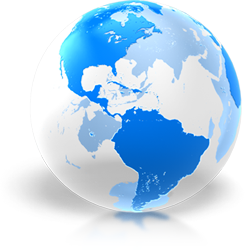
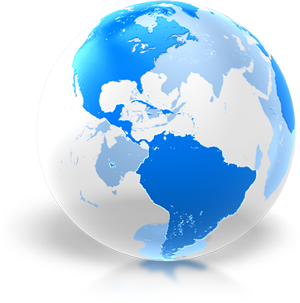
Implement Skrollr library on home page.

diff --git a/vendor/assets/javascripts/skrollr.min.js b/vendor/assets/javascripts/skrollr.min.js
@@ -1,0 +1,2 @@
+/*! skrollr 0.6.30 (2015-06-19) | Alexander Prinzhorn - https://github.com/Prinzhorn/skrollr | Free to use under terms of MIT license */
+!function(a,b,c){"use strict";function d(c){if(e=b.documentElement,f=b.body,T(),ha=this,c=c||{},ma=c.constants||{},c.easing)for(var d in c.easing)W[d]=c.easing[d];ta=c.edgeStrategy||"set",ka={beforerender:c.beforerender,render:c.render,keyframe:c.keyframe},la=c.forceHeight!==!1,la&&(Ka=c.scale||1),na=c.mobileDeceleration||y,pa=c.smoothScrolling!==!1,qa=c.smoothScrollingDuration||A,ra={targetTop:ha.getScrollTop()},Sa=(c.mobileCheck||function(){return/Android|iPhone|iPad|iPod|BlackBerry/i.test(navigator.userAgent||navigator.vendor||a.opera)})(),Sa?(ja=b.getElementById(c.skrollrBody||z),ja&&ga(),X(),Ea(e,[s,v],[t])):Ea(e,[s,u],[t]),ha.refresh(),wa(a,"resize orientationchange",function(){var a=e.clientWidth,b=e.clientHeight;(b!==Pa||a!==Oa)&&(Pa=b,Oa=a,Qa=!0)});var g=U();return function h(){$(),va=g(h)}(),ha}var e,f,g={get:function(){return ha},init:function(a){return ha||new d(a)},VERSION:"0.6.29"},h=Object.prototype.hasOwnProperty,i=a.Math,j=a.getComputedStyle,k="touchstart",l="touchmove",m="touchcancel",n="touchend",o="skrollable",p=o+"-before",q=o+"-between",r=o+"-after",s="skrollr",t="no-"+s,u=s+"-desktop",v=s+"-mobile",w="linear",x=1e3,y=.004,z="skrollr-body",A=200,B="start",C="end",D="center",E="bottom",F="___skrollable_id",G=/^(?:input|textarea|button|select)$/i,H=/^\s+|\s+$/g,I=/^data(?:-(_\w+))?(?:-?(-?\d*\.?\d+p?))?(?:-?(start|end|top|center|bottom))?(?:-?(top|center|bottom))?$/,J=/\s*(@?[\w\-\[\]]+)\s*:\s*(.+?)\s*(?:;|$)/gi,K=/^(@?[a-z\-]+)\[(\w+)\]$/,L=/-([a-z0-9_])/g,M=function(a,b){return b.toUpperCase()},N=/[\-+]?[\d]*\.?[\d]+/g,O=/\{\?\}/g,P=/rgba?\(\s*-?\d+\s*,\s*-?\d+\s*,\s*-?\d+/g,Q=/[a-z\-]+-gradient/g,R="",S="",T=function(){var a=/^(?:O|Moz|webkit|ms)|(?:-(?:o|moz|webkit|ms)-)/;if(j){var b=j(f,null);for(var c in b)if(R=c.match(a)||+c==c&&b[c].match(a))break;if(!R)return void(R=S="");R=R[0],"-"===R.slice(0,1)?(S=R,R={"-webkit-":"webkit","-moz-":"Moz","-ms-":"ms","-o-":"O"}[R]):S="-"+R.toLowerCase()+"-"}},U=function(){var b=a.requestAnimationFrame||a[R.toLowerCase()+"RequestAnimationFrame"],c=Ha();return(Sa||!b)&&(b=function(b){var d=Ha()-c,e=i.max(0,1e3/60-d);return a.setTimeout(function(){c=Ha(),b()},e)}),b},V=function(){var b=a.cancelAnimationFrame||a[R.toLowerCase()+"CancelAnimationFrame"];return(Sa||!b)&&(b=function(b){return a.clearTimeout(b)}),b},W={begin:function(){return 0},end:function(){return 1},linear:function(a){return a},quadratic:function(a){return a*a},cubic:function(a){return a*a*a},swing:function(a){return-i.cos(a*i.PI)/2+.5},sqrt:function(a){return i.sqrt(a)},outCubic:function(a){return i.pow(a-1,3)+1},bounce:function(a){var b;if(.5083>=a)b=3;else if(.8489>=a)b=9;else if(.96208>=a)b=27;else{if(!(.99981>=a))return 1;b=91}return 1-i.abs(3*i.cos(a*b*1.028)/b)}};d.prototype.refresh=function(a){var d,e,f=!1;for(a===c?(f=!0,ia=[],Ra=0,a=b.getElementsByTagName("*")):a.length===c&&(a=[a]),d=0,e=a.length;e>d;d++){var g=a[d],h=g,i=[],j=pa,k=ta,l=!1;if(f&&F in g&&delete g[F],g.attributes){for(var m=0,n=g.attributes.length;n>m;m++){var p=g.attributes[m];if("data-anchor-target"!==p.name)if("data-smooth-scrolling"!==p.name)if("data-edge-strategy"!==p.name)if("data-emit-events"!==p.name){var q=p.name.match(I);if(null!==q){var r={props:p.value,element:g,eventType:p.name.replace(L,M)};i.push(r);var s=q[1];s&&(r.constant=s.substr(1));var t=q[2];/p$/.test(t)?(r.isPercentage=!0,r.offset=(0|t.slice(0,-1))/100):r.offset=0|t;var u=q[3],v=q[4]||u;u&&u!==B&&u!==C?(r.mode="relative",r.anchors=[u,v]):(r.mode="absolute",u===C?r.isEnd=!0:r.isPercentage||(r.offset=r.offset*Ka))}}else l=!0;else k=p.value;else j="off"!==p.value;else if(h=b.querySelector(p.value),null===h)throw'Unable to find anchor target "'+p.value+'"'}if(i.length){var w,x,y;!f&&F in g?(y=g[F],w=ia[y].styleAttr,x=ia[y].classAttr):(y=g[F]=Ra++,w=g.style.cssText,x=Da(g)),ia[y]={element:g,styleAttr:w,classAttr:x,anchorTarget:h,keyFrames:i,smoothScrolling:j,edgeStrategy:k,emitEvents:l,lastFrameIndex:-1},Ea(g,[o],[])}}}for(Aa(),d=0,e=a.length;e>d;d++){var z=ia[a[d][F]];z!==c&&(_(z),ba(z))}return ha},d.prototype.relativeToAbsolute=function(a,b,c){var d=e.clientHeight,f=a.getBoundingClientRect(),g=f.top,h=f.bottom-f.top;return b===E?g-=d:b===D&&(g-=d/2),c===E?g+=h:c===D&&(g+=h/2),g+=ha.getScrollTop(),g+.5|0},d.prototype.animateTo=function(a,b){b=b||{};var d=Ha(),e=ha.getScrollTop(),f=b.duration===c?x:b.duration;return oa={startTop:e,topDiff:a-e,targetTop:a,duration:f,startTime:d,endTime:d+f,easing:W[b.easing||w],done:b.done},oa.topDiff||(oa.done&&oa.done.call(ha,!1),oa=c),ha},d.prototype.stopAnimateTo=function(){oa&&oa.done&&oa.done.call(ha,!0),oa=c},d.prototype.isAnimatingTo=function(){return!!oa},d.prototype.isMobile=function(){return Sa},d.prototype.setScrollTop=function(b,c){return sa=c===!0,Sa?Ta=i.min(i.max(b,0),Ja):a.scrollTo(0,b),ha},d.prototype.getScrollTop=function(){return Sa?Ta:a.pageYOffset||e.scrollTop||f.scrollTop||0},d.prototype.getMaxScrollTop=function(){return Ja},d.prototype.on=function(a,b){return ka[a]=b,ha},d.prototype.off=function(a){return delete ka[a],ha},d.prototype.destroy=function(){var a=V();a(va),ya(),Ea(e,[t],[s,u,v]);for(var b=0,d=ia.length;d>b;b++)fa(ia[b].element);e.style.overflow=f.style.overflow="",e.style.height=f.style.height="",ja&&g.setStyle(ja,"transform","none"),ha=c,ja=c,ka=c,la=c,Ja=0,Ka=1,ma=c,na=c,La="down",Ma=-1,Oa=0,Pa=0,Qa=!1,oa=c,pa=c,qa=c,ra=c,sa=c,Ra=0,ta=c,Sa=!1,Ta=0,ua=c};var X=function(){var d,g,h,j,o,p,q,r,s,t,u,v;wa(e,[k,l,m,n].join(" "),function(a){var e=a.changedTouches[0];for(j=a.target;3===j.nodeType;)j=j.parentNode;switch(o=e.clientY,p=e.clientX,t=a.timeStamp,G.test(j.tagName)||a.preventDefault(),a.type){case k:d&&d.blur(),ha.stopAnimateTo(),d=j,g=q=o,h=p,s=t;break;case l:G.test(j.tagName)&&b.activeElement!==j&&a.preventDefault(),r=o-q,v=t-u,ha.setScrollTop(Ta-r,!0),q=o,u=t;break;default:case m:case n:var f=g-o,w=h-p,x=w*w+f*f;if(49>x){if(!G.test(d.tagName)){d.focus();var y=b.createEvent("MouseEvents");y.initMouseEvent("click",!0,!0,a.view,1,e.screenX,e.screenY,e.clientX,e.clientY,a.ctrlKey,a.altKey,a.shiftKey,a.metaKey,0,null),d.dispatchEvent(y)}return}d=c;var z=r/v;z=i.max(i.min(z,3),-3);var A=i.abs(z/na),B=z*A+.5*na*A*A,C=ha.getScrollTop()-B,D=0;C>Ja?(D=(Ja-C)/B,C=Ja):0>C&&(D=-C/B,C=0),A*=1-D,ha.animateTo(C+.5|0,{easing:"outCubic",duration:A})}}),a.scrollTo(0,0),e.style.overflow=f.style.overflow="hidden"},Y=function(){var a,b,c,d,f,g,h,j,k,l,m,n=e.clientHeight,o=Ba();for(j=0,k=ia.length;k>j;j++)for(a=ia[j],b=a.element,c=a.anchorTarget,d=a.keyFrames,f=0,g=d.length;g>f;f++)h=d[f],l=h.offset,m=o[h.constant]||0,h.frame=l,h.isPercentage&&(l*=n,h.frame=l),"relative"===h.mode&&(fa(b),h.frame=ha.relativeToAbsolute(c,h.anchors[0],h.anchors[1])-l,fa(b,!0)),h.frame+=m,la&&!h.isEnd&&h.frame>Ja&&(Ja=h.frame);for(Ja=i.max(Ja,Ca()),j=0,k=ia.length;k>j;j++){for(a=ia[j],d=a.keyFrames,f=0,g=d.length;g>f;f++)h=d[f],m=o[h.constant]||0,h.isEnd&&(h.frame=Ja-h.offset+m);a.keyFrames.sort(Ia)}},Z=function(a,b){for(var c=0,d=ia.length;d>c;c++){var e,f,i=ia[c],j=i.element,k=i.smoothScrolling?a:b,l=i.keyFrames,m=l.length,n=l[0],s=l[l.length-1],t=k<n.frame,u=k>s.frame,v=t?n:s,w=i.emitEvents,x=i.lastFrameIndex;if(t||u){if(t&&-1===i.edge||u&&1===i.edge)continue;switch(t?(Ea(j,[p],[r,q]),w&&x>-1&&(za(j,n.eventType,La),i.lastFrameIndex=-1)):(Ea(j,[r],[p,q]),w&&m>x&&(za(j,s.eventType,La),i.lastFrameIndex=m)),i.edge=t?-1:1,i.edgeStrategy){case"reset":fa(j);continue;case"ease":k=v.frame;break;default:case"set":var y=v.props;for(e in y)h.call(y,e)&&(f=ea(y[e].value),0===e.indexOf("@")?j.setAttribute(e.substr(1),f):g.setStyle(j,e,f));continue}}else 0!==i.edge&&(Ea(j,[o,q],[p,r]),i.edge=0);for(var z=0;m-1>z;z++)if(k>=l[z].frame&&k<=l[z+1].frame){var A=l[z],B=l[z+1];for(e in A.props)if(h.call(A.props,e)){var C=(k-A.frame)/(B.frame-A.frame);C=A.props[e].easing(C),f=da(A.props[e].value,B.props[e].value,C),f=ea(f),0===e.indexOf("@")?j.setAttribute(e.substr(1),f):g.setStyle(j,e,f)}w&&x!==z&&("down"===La?za(j,A.eventType,La):za(j,B.eventType,La),i.lastFrameIndex=z);break}}},$=function(){Qa&&(Qa=!1,Aa());var a,b,d=ha.getScrollTop(),e=Ha();if(oa)e>=oa.endTime?(d=oa.targetTop,a=oa.done,oa=c):(b=oa.easing((e-oa.startTime)/oa.duration),d=oa.startTop+b*oa.topDiff|0),ha.setScrollTop(d,!0);else if(!sa){var f=ra.targetTop-d;f&&(ra={startTop:Ma,topDiff:d-Ma,targetTop:d,startTime:Na,endTime:Na+qa}),e<=ra.endTime&&(b=W.sqrt((e-ra.startTime)/qa),d=ra.startTop+b*ra.topDiff|0)}if(sa||Ma!==d){La=d>Ma?"down":Ma>d?"up":La,sa=!1;var h={curTop:d,lastTop:Ma,maxTop:Ja,direction:La},i=ka.beforerender&&ka.beforerender.call(ha,h);i!==!1&&(Z(d,ha.getScrollTop()),Sa&&ja&&g.setStyle(ja,"transform","translate(0, "+-Ta+"px) "+ua),Ma=d,ka.render&&ka.render.call(ha,h)),a&&a.call(ha,!1)}Na=e},_=function(a){for(var b=0,c=a.keyFrames.length;c>b;b++){for(var d,e,f,g,h=a.keyFrames[b],i={};null!==(g=J.exec(h.props));)f=g[1],e=g[2],d=f.match(K),null!==d?(f=d[1],d=d[2]):d=w,e=e.indexOf("!")?aa(e):[e.slice(1)],i[f]={value:e,easing:W[d]};h.props=i}},aa=function(a){var b=[];return P.lastIndex=0,a=a.replace(P,function(a){return a.replace(N,function(a){return a/255*100+"%"})}),S&&(Q.lastIndex=0,a=a.replace(Q,function(a){return S+a})),a=a.replace(N,function(a){return b.push(+a),"{?}"}),b.unshift(a),b},ba=function(a){var b,c,d={};for(b=0,c=a.keyFrames.length;c>b;b++)ca(a.keyFrames[b],d);for(d={},b=a.keyFrames.length-1;b>=0;b--)ca(a.keyFrames[b],d)},ca=function(a,b){var c;for(c in b)h.call(a.props,c)||(a.props[c]=b[c]);for(c in a.props)b[c]=a.props[c]},da=function(a,b,c){var d,e=a.length;if(e!==b.length)throw"Can't interpolate between \""+a[0]+'" and "'+b[0]+'"';var f=[a[0]];for(d=1;e>d;d++)f[d]=a[d]+(b[d]-a[d])*c;return f},ea=function(a){var b=1;return O.lastIndex=0,a[0].replace(O,function(){return a[b++]})},fa=function(a,b){a=[].concat(a);for(var c,d,e=0,f=a.length;f>e;e++)d=a[e],c=ia[d[F]],c&&(b?(d.style.cssText=c.dirtyStyleAttr,Ea(d,c.dirtyClassAttr)):(c.dirtyStyleAttr=d.style.cssText,c.dirtyClassAttr=Da(d),d.style.cssText=c.styleAttr,Ea(d,c.classAttr)))},ga=function(){ua="translateZ(0)",g.setStyle(ja,"transform",ua);var a=j(ja),b=a.getPropertyValue("transform"),c=a.getPropertyValue(S+"transform"),d=b&&"none"!==b||c&&"none"!==c;d||(ua="")};g.setStyle=function(a,b,c){var d=a.style;if(b=b.replace(L,M).replace("-",""),"zIndex"===b)isNaN(c)?d[b]=c:d[b]=""+(0|c);else if("float"===b)d.styleFloat=d.cssFloat=c;else try{R&&(d[R+b.slice(0,1).toUpperCase()+b.slice(1)]=c),d[b]=c}catch(e){}};var ha,ia,ja,ka,la,ma,na,oa,pa,qa,ra,sa,ta,ua,va,wa=g.addEvent=function(b,c,d){var e=function(b){return b=b||a.event,b.target||(b.target=b.srcElement),b.preventDefault||(b.preventDefault=function(){b.returnValue=!1,b.defaultPrevented=!0}),d.call(this,b)};c=c.split(" ");for(var f,g=0,h=c.length;h>g;g++)f=c[g],b.addEventListener?b.addEventListener(f,d,!1):b.attachEvent("on"+f,e),Ua.push({element:b,name:f,listener:d})},xa=g.removeEvent=function(a,b,c){b=b.split(" ");for(var d=0,e=b.length;e>d;d++)a.removeEventListener?a.removeEventListener(b[d],c,!1):a.detachEvent("on"+b[d],c)},ya=function(){for(var a,b=0,c=Ua.length;c>b;b++)a=Ua[b],xa(a.element,a.name,a.listener);Ua=[]},za=function(a,b,c){ka.keyframe&&ka.keyframe.call(ha,a,b,c)},Aa=function(){var a=ha.getScrollTop();Ja=0,la&&!Sa&&(f.style.height=""),Y(),la&&!Sa&&(f.style.height=Ja+e.clientHeight+"px"),Sa?ha.setScrollTop(i.min(ha.getScrollTop(),Ja)):ha.setScrollTop(a,!0),sa=!0},Ba=function(){var a,b,c=e.clientHeight,d={};for(a in ma)b=ma[a],"function"==typeof b?b=b.call(ha):/p$/.test(b)&&(b=b.slice(0,-1)/100*c),d[a]=b;return d},Ca=function(){var a,b=0;return ja&&(b=i.max(ja.offsetHeight,ja.scrollHeight)),a=i.max(b,f.scrollHeight,f.offsetHeight,e.scrollHeight,e.offsetHeight,e.clientHeight),a-e.clientHeight},Da=function(b){var c="className";return a.SVGElement&&b instanceof a.SVGElement&&(b=b[c],c="baseVal"),b[c]},Ea=function(b,d,e){var f="className";if(a.SVGElement&&b instanceof a.SVGElement&&(b=b[f],f="baseVal"),e===c)return void(b[f]=d);for(var g=b[f],h=0,i=e.length;i>h;h++)g=Ga(g).replace(Ga(e[h])," ");g=Fa(g);for(var j=0,k=d.length;k>j;j++)-1===Ga(g).indexOf(Ga(d[j]))&&(g+=" "+d[j]);b[f]=Fa(g)},Fa=function(a){return a.replace(H,"")},Ga=function(a){return" "+a+" "},Ha=Date.now||function(){return+new Date},Ia=function(a,b){return a.frame-b.frame},Ja=0,Ka=1,La="down",Ma=-1,Na=Ha(),Oa=0,Pa=0,Qa=!1,Ra=0,Sa=!1,Ta=0,Ua=[];"function"==typeof define&&define.amd?define([],function(){return g}):"undefined"!=typeof module&&module.exports?module.exports=g:a.skrollr=g}(window,document);

diff --git a/app/assets/stylesheets/plq-style.css b/app/assets/stylesheets/plq-style.css
@@ -253,7 +253,7 @@ font-weight:normal;
 }
 .plq-global-network {
 margin-top:50px;
-background:url(globe.png) top right no-repeat;
+background:url(globe.png) 100% 30% no-repeat;
 }
 .plq-global-network .inner-padd {
 padding: 0px 300px 5px 0px;
@@ -267,15 +267,15 @@ padding-bottom:12px;
 }
 .plq-global-network p {
 color:#555555;
-font-size:20px;
+font-size:24px;
 margin:0px 0px 17px 0px;
 padding:0px;
 }
 .plq-global-network p strong {
-font-family: OpenSans-Bold;
+font-family: OpenSans-Light;
 font-weight:normal;
-font-size:24px;
-color:#222;
+font-size:36px;
+color:#4db6dc;
 }
 
 .signup-for-early-access {
@@ -1643,6 +1643,11 @@ font-family: OpenSans-Bold;
 color:#4db6dc;
 text-decoration:none;
 font-weight:normal;
+}
+
+.featurette {
+position:relative;
+transition: all 0.5s ease-in-out 0s;
 }
 
 @media only screen and (max-width: 1000px) {

diff --git a/app/assets/javascripts/application.js b/app/assets/javascripts/application.js
@@ -13,7 +13,8 @@
 //= require jquery
 //= require jquery_ujs
 //= require jquery.remotipart
-//= require custom-triggers.js
 //= require jquery-ui.min.js
 //= require responsiveslides.min.js
+//= require skrollr.min.js
+//= require custom-triggers.js
 //= require_tree .
